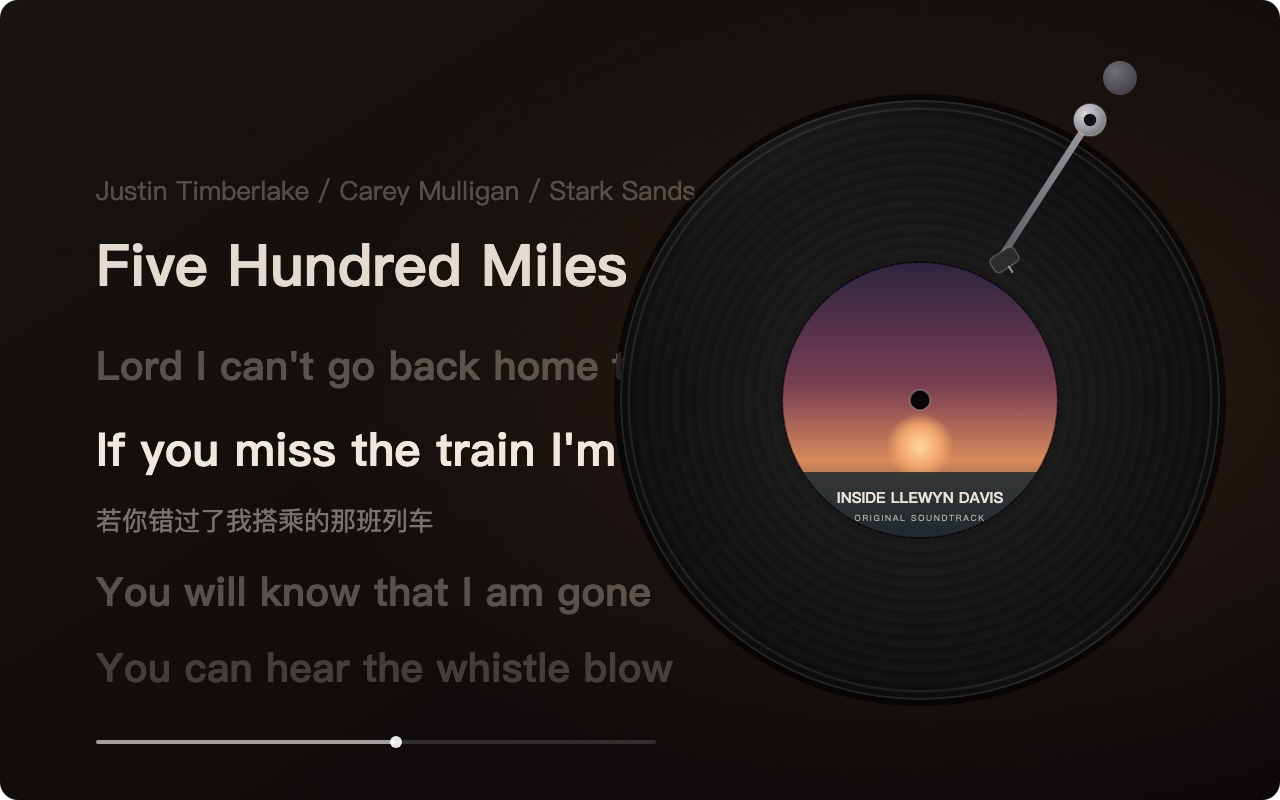
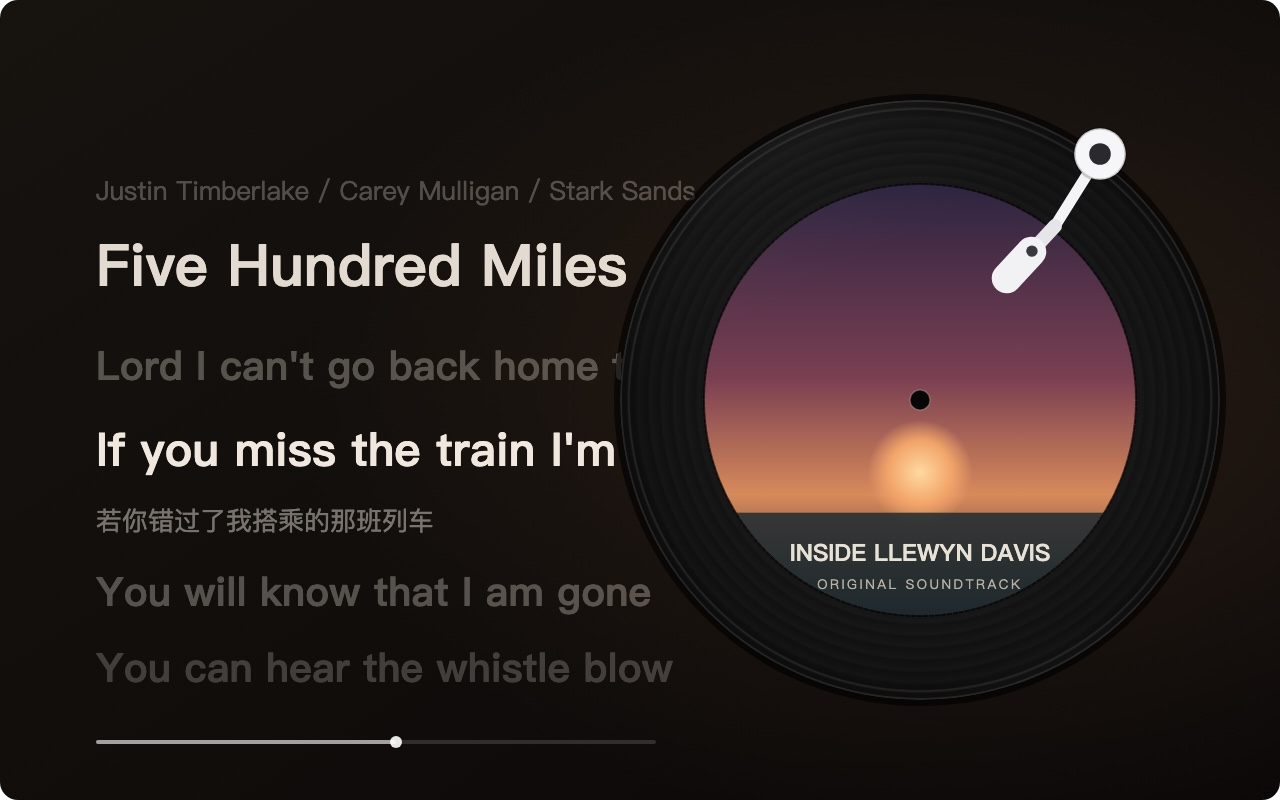
1.2.0: 封面占比提至 72%，唱臂重绘为细浅色样式

Changed region(s): [[0.5312, 0.0625, 0.9062, 0.7812]]

diff --git a/README.md b/README.md
@@ -27,7 +27,7 @@
 | 唱片位置 | 歌词的左侧 / 右侧 |
 | 唱片大小 | 直径占播放区高度的比例（45%–100%） |
 | 旋转一圈（秒） | 6–60 秒；真黑胶 33⅓ 转约 1.8 秒一圈，默认放慢到 20 秒 |
-| 封面占比 | 碟心封面占唱片直径的比例 |
+| 封面占比 | 碟心封面占唱片直径的比例（默认 72%，接近参考效果） |
 | 唱臂 / 高光光泽 / 主题色光晕 | 各元素的开关 |
 | 歌词字号 | 叠加在主题字号与用户歌词字号之上 |
 | 显示下一句 | 下一句歌词的预览 |
@@ -59,6 +59,7 @@
 
 ## 更新日志
 
+- **1.2.0**：按参考效果调整——碟心封面默认占比从 42% 提高到 72%（可调 50%–85%）；唱臂重绘为细浅色样式（小圆轴 + 双段细杆 + 胶囊唱头），与网易云风格一致。
 - **1.1.0**：改为**动画模式**（此前误用播放页常驻图层，会叠在所有歌词模式上）。现在只有选中「黑胶唱片」时才出现，其他模式不受影响；同时补上歌词文本（曲名 / 当前句 / 翻译 / 下一句）与主题字体联动，移除 `stageLayers` 权限与独立设置分区（设置并入模式设置面板）。
 - **1.0.0**：首个版本。
 
